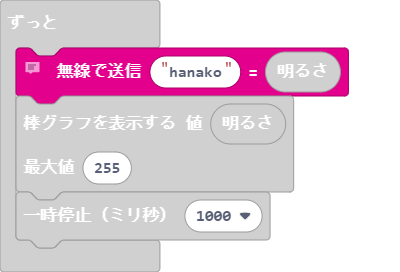
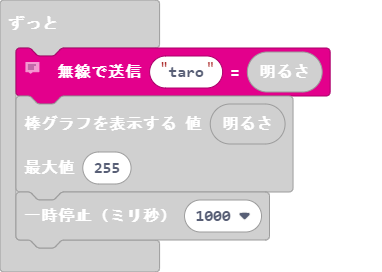
Update main.blocks, main.ts

diff --git a/main.ts b/main.ts
@@ -19,7 +19,7 @@ radio.setGroup(1)
 pins.servoWritePin(AnalogPin.P0, 0)
 basic.forever(function () {
     // 名前を変える
-    radio.sendValue("hanako", input.lightLevel())
+    radio.sendValue("taro", input.lightLevel())
     led.plotBarGraph(
     input.lightLevel(),
     255
